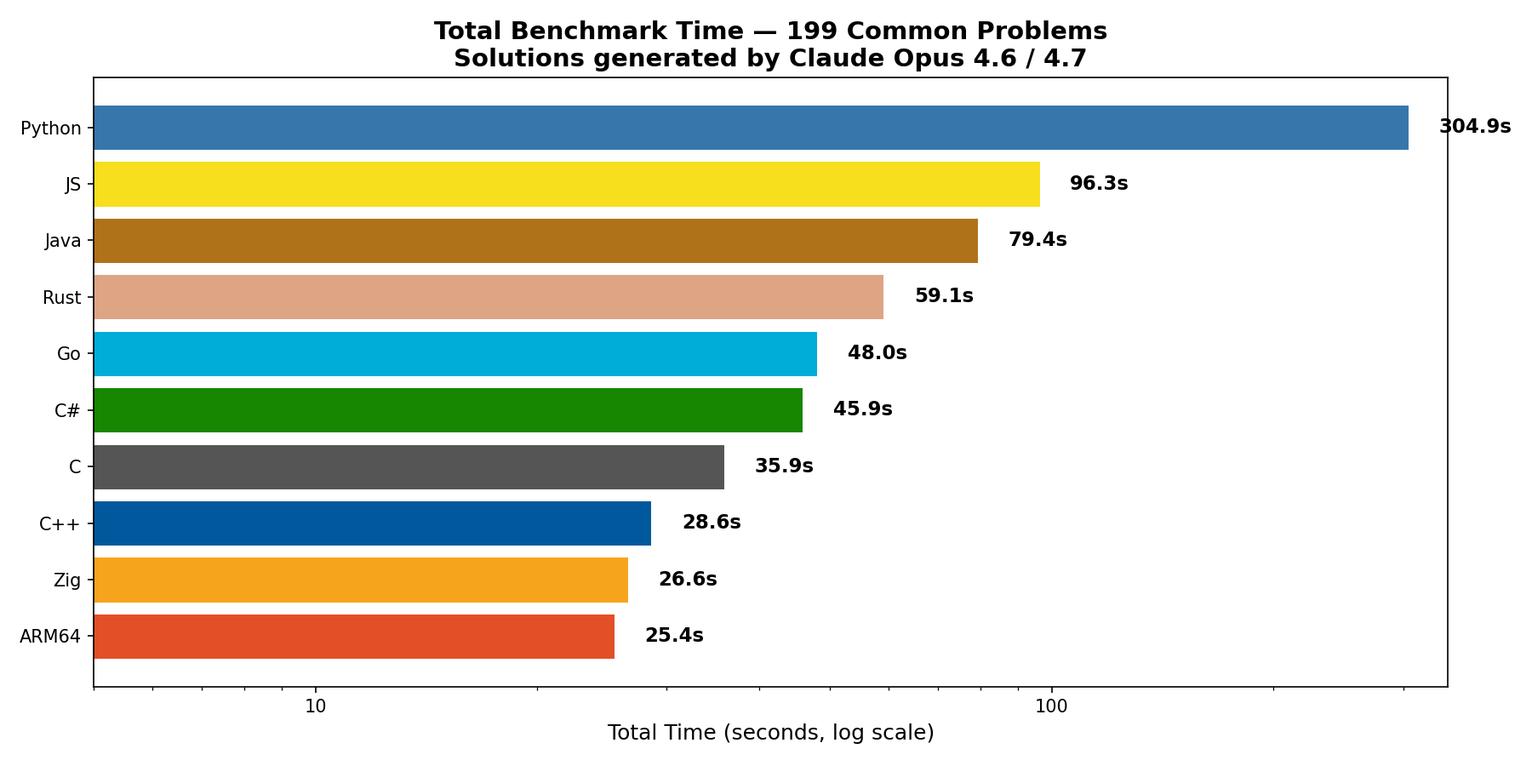
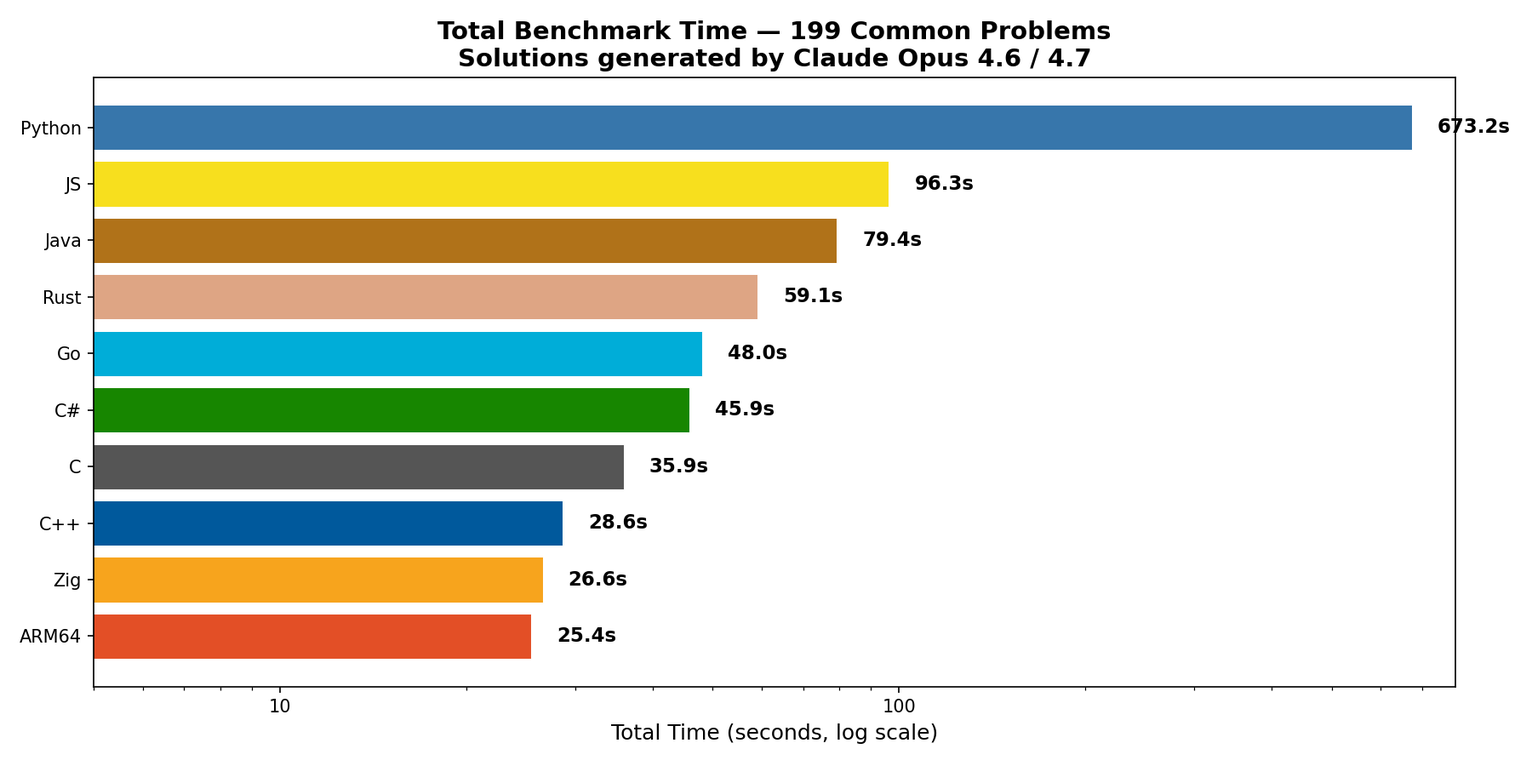
refresh python p219,220,222,223,224,225,226,227,228,229,230,231,232,233,234,235,237,239,240,242,243,244,246,247,248,249,250,251,252,253,255,256,257,258,259,261,263,264,265,266,267,268,269,270,271,273,274,276,277,278,280,281,282,284,285,286,288,293,295,297

diff --git a/THREE_MODE_REPORT.md b/THREE_MODE_REPORT.md
@@ -18,7 +18,7 @@ Reading the columns:
 | C# | 219 | 48.69 s | 67.05 s | 75.97 s |
 | Java | 219 | 48.35 s | 267.03 s | 435.89 s |
 | JS | 218 | 103.25 s | 192.45 s | 192.45 s |
-| Python | 219 | 298.12 s | 503.85 s | 503.85 s |
+| Python | 303 | 771.60 s | 1273.81 s | 1273.81 s |
 
 ## Comptime / constant-fold detection
 
@@ -174,7 +174,7 @@ Each cell: `runtime / compile`. Sorted by problem number.
 | 133 | 2.0 ms / 209.0 ms | 2.0 ms / 25.62 s | 2.4 ms / 834.7 ms | 2.2 ms / 1.48 s | 2.1 ms / 0 ns | 2.2 ms / 0 ns | 9.4 ms / 877.2 ms | 9.3 ms / 0 ns | 18.8 ms / 0 ns |
 | 134 | 5.2 ms / 300.0 ms | 6.0 ms / 369.1 ms | 6.0 ms / 680.3 ms | 6.7 ms / 1.28 s | 0 ns / 142.9 ms | 5.8 ms / 0 ns | 51.7 ms / 885.8 ms | 36.5 ms / 0 ns | 98.6 ms / 0 ns |
 | 135 | 2.7 ms / 264.0 ms | 2.5 ms / 13.34 s | 2.7 ms / 675.8 ms | 5.6 ms / 1.76 s | 3.2 ms / 0 ns | 4.2 ms / 0 ns | 3.7 ms / 850.7 ms | 8.1 ms / 0 ns | 367.9 ms / 0 ns |
-| 136 | 501.5 ms / 337.4 ms | 460.3 ms / 362.1 ms | 668.7 ms / 722.8 ms | 755.8 ms / 2.40 s | 0 ns / 131.3 ms | 775.2 ms / 0 ns | 688.1 ms / 653.4 ms | 1.44 s / 0 ns | — |
+| 136 | 501.5 ms / 337.4 ms | 460.3 ms / 362.1 ms | 668.7 ms / 722.8 ms | 755.8 ms / 2.40 s | 0 ns / 131.3 ms | 775.2 ms / 0 ns | 688.1 ms / 653.4 ms | 1.44 s / 0 ns | 26.85 s / 0 ns |
 | 137 | 125 ns / 577.6 ms | 0 ns / 389.8 ms | 42 ns / 656.5 ms | 166 ns / 2.56 s | 0 ns / 0 ns | 417 ns / 0 ns | 1.1 µs / 736.5 ms | 375 ns / 0 ns | 2.6 µs / 0 ns |
 | 138 | 0 ns / 192.5 ms | 0 ns / 398.6 ms | 42 ns / 910.1 ms | 41 ns / 2.87 s | 0 ns / 175.7 ms | 208 ns / 0 ns | 250 ns / 983.6 ms | 166 ns / 0 ns | 667 ns / 0 ns |
 | 139 | 258.0 ms / 223.4 ms | 299.8 ms / 411.8 ms | 284.3 ms / 750.6 ms | 281.6 ms / 2.31 s | 230.1 ms / 156.9 ms | 302.1 ms / 0 ns | 280.2 ms / 701.8 ms | 331.6 ms / 0 ns | 2.15 s / 0 ns |
@@ -184,15 +184,15 @@ Each cell: `runtime / compile`. Sorted by problem number.
 | 143 | 10.7 ms / 213.1 ms | 8.8 ms / 35.07 s | 123.0 ms / 922.1 ms | 41.6 ms / 2.71 s | 0 ns / 138.6 ms | 60.3 ms / 0 ns | 11.9 ms / 1.01 s | 34.6 ms / 0 ns | 205.0 ms / 0 ns |
 | 144 | 9.3 µs / 343.0 ms | 24.0 µs / 363.2 ms | 10.4 µs / 819.4 ms | 9.0 µs / 2.75 s | 10.0 µs / 0 ns | 16.7 µs / 0 ns | 10.6 µs / 676.6 ms | 10.4 µs / 0 ns | 126.9 µs / 0 ns |
 | 145 | 52.2 ms / 196.5 ms | 45.2 ms / 405.8 ms | 53.3 ms / 940.5 ms | 134.6 ms / 1.67 s | 75.5 ms / 0 ns | 98.6 ms / 0 ns | 117.8 ms / 848.5 ms | 283.7 ms / 0 ns | 4.83 s / 0 ns |
-| 146 | 3.68 s / 298.8 ms | 2.75 s / 397.4 ms | 3.97 s / 976.0 ms | 3.53 s / 2.09 s | 2.66 s / 0 ns | 8.40 s / 0 ns | 4.81 s / 896.4 ms | 11.45 s / 0 ns | — |
+| 146 | 3.68 s / 298.8 ms | 2.75 s / 397.4 ms | 3.97 s / 976.0 ms | 3.53 s / 2.09 s | 2.66 s / 0 ns | 8.40 s / 0 ns | 4.81 s / 896.4 ms | 11.45 s / 0 ns | 18.92 s / 0 ns |
 | 147 | 1.4 ms / 417.6 ms | 2.0 ms / 401.5 ms | 6.2 ms / 746.4 ms | 3.3 ms / 2.29 s | 3.7 ms / 155.0 ms | 4.4 ms / 0 ns | 3.5 ms / 985.0 ms | 6.5 ms / 0 ns | 552.4 ms / 0 ns |
 | 148 | 0 ns / 275.8 ms | 0 ns / 341.0 ms | 167 ns / 687.1 ms | 42 ns / 2.30 s | 0 ns / 130.9 ms | 500 ns / 0 ns | 125 ns / 832.7 ms | 1.9 µs / 0 ns | 2.3 µs / 0 ns |
 | 149 | 34.1 ms / 233.7 ms | 37.1 ms / 410.0 ms | 122.8 ms / 742.8 ms | 55.0 ms / 1.57 s | 36.8 ms / 0 ns | 50.2 ms / 0 ns | 61.8 ms / 926.6 ms | 56.7 ms / 0 ns | 1.38 s / 0 ns |
-| 150 | 234.9 ms / 435.6 ms | 118.4 ms / 392.8 ms | 326.9 ms / 901.7 ms | 345.5 ms / 2.51 s | 124.0 ms / 0 ns | 248.3 ms / 0 ns | 379.5 ms / 1.22 s | 644.1 ms / 0 ns | — |
+| 150 | 234.9 ms / 435.6 ms | 118.4 ms / 392.8 ms | 326.9 ms / 901.7 ms | 345.5 ms / 2.51 s | 124.0 ms / 0 ns | 248.3 ms / 0 ns | 379.5 ms / 1.22 s | 644.1 ms / 0 ns | 17.76 s / 0 ns |
 | 151 | 625 ns / 224.3 ms | 3.0 µs / 366.9 ms | 708 ns / 980.4 ms | 41 ns / 1.94 s | 5.0 µs / 0 ns | 0 ns / 0 ns | 3.5 µs / 763.5 ms | 1.7 µs / 0 ns | 166 ns / 0 ns |
-| 152 | 961.0 ms / 223.7 ms | 703.5 ms / 439.6 ms | 877.4 ms / 193.0 ms | 1.54 s / 1.60 s | 1.58 s / 0 ns | 1.00 s / 0 ns | 1.24 s / 728.0 ms | 8.10 s / 0 ns | — |
+| 152 | 961.0 ms / 223.7 ms | 703.5 ms / 439.6 ms | 877.4 ms / 193.0 ms | 1.54 s / 1.60 s | 1.58 s / 0 ns | 1.00 s / 0 ns | 1.24 s / 728.0 ms | 8.10 s / 0 ns | 891.3 ms / 0 ns |
 | 153 | 2.85 s / 222.2 ms | 2.99 s / 381.2 ms | 3.84 s / 966.8 ms | 3.06 s / 1.67 s | 0 ns / 140.6 ms | 2.93 s / 0 ns | 125 ns / 817.9 ms | 12.66 s / 0 ns | 83 ns / 0 ns |
-| 154 | 3.16 s / 255.9 ms | 3.01 s / 352.9 ms | 4.46 s / 819.7 ms | 4.39 s / 1.98 s | 3.43 s / 0 ns | 6.01 s / 0 ns | 7.74 s / 942.5 ms | 9.93 s / 0 ns | — |
+| 154 | 3.16 s / 255.9 ms | 3.01 s / 352.9 ms | 4.46 s / 819.7 ms | 4.39 s / 1.98 s | 3.43 s / 0 ns | 6.01 s / 0 ns | 7.74 s / 942.5 ms | 9.93 s / 0 ns | 83 ns / 0 ns |
 | 155 | 0 ns / 630.6 ms | 539.1 ms / 376.0 ms | 2.66 s / 156.3 ms | 0 ns / 3.23 s | 699.6 ms / 0 ns | 41 ns / 0 ns | 125 ns / 1.48 s | 84 ns / 0 ns | 83 ns / 0 ns |
 | 156 | 108.7 ms / 614.1 ms | 75.8 ms / 359.9 ms | 101.9 ms / 843.7 ms | 148.0 ms / 2.16 s | 143.4 ms / 0 ns | 114.1 ms / 0 ns | 158.7 ms / 1.02 s | 1.48 s / 0 ns | 42 ns / 0 ns |
 | 157 | 4.8 ms / 398.8 ms | 0 ns / 387.5 ms | 4.9 ms / 1.26 s | 5.3 ms / 1.28 s | 4.8 ms / 167.4 ms | 5.2 ms / 0 ns | 5.0 ms / 1.05 s | 7.5 ms / 0 ns | 236.0 ms / 0 ns |
@@ -223,7 +223,7 @@ Each cell: `runtime / compile`. Sorted by problem number.
 | 182 | 252.9 ms / 269.6 ms | 270.2 ms / 360.4 ms | 217.8 ms / 689.1 ms | 216.6 ms / 1.13 s | 0 ns / 145.3 ms | 230.8 ms / 0 ns | 217.7 ms / 958.1 ms | 524.2 ms / 0 ns | 437.6 ms / 0 ns |
 | 183 | 696.8 µs / 527.5 ms | 877.0 µs / 375.6 ms | 670.0 µs / 586.8 ms | 828.1 µs / 1.37 s | 673.0 µs / 0 ns | 620.6 µs / 0 ns | 655.5 µs / 755.1 ms | 772.8 µs / 0 ns | 4.2 ms / 0 ns |
 | 184 | 2.6 ms / 163.1 ms | 1.8 ms / 483.6 ms | 1.4 ms / 371.0 ms | 41 ns / 373.9 ms | 1.1 ms / 172.4 ms | 2.4 ms / 1.09 s | 2.1 ms / 436.5 ms | 83 ns / 0 ns | 83 ns / 0 ns |
-| 185 | — | 47.0 ms / 395.1 ms | — | — | 91.9 ms / 134.7 ms | — | — | — | — |
+| 185 | — | 47.0 ms / 395.1 ms | — | — | 91.9 ms / 134.7 ms | — | — | — | 1.01 s / 0 ns |
 | 186 | 51.2 ms / 405.6 ms | 0 ns / 356.0 ms | 53.0 ms / 598.9 ms | 86.3 ms / 1.07 s | 31.5 ms / 0 ns | 52.9 ms / 0 ns | 72.0 ms / 979.0 ms | 162.1 ms / 0 ns | 125 ns / 0 ns |
 | 187 | 83.2 µs / 611.1 ms | 54.0 µs / 375.2 ms | 380.5 ms / 568.2 ms | 77.4 µs / 989.2 ms | 53.0 µs / 0 ns | 85.7 µs / 0 ns | 80.7 µs / 724.1 ms | 492.8 ms / 0 ns | 83 ns / 0 ns |
 | 188 | 5.5 µs / 633.2 ms | 0 ns / 372.9 ms | 1.3 µs / 498.7 ms | 19.7 µs / 829.5 ms | 2.0 µs / 0 ns | 5.3 µs / 0 ns | 1.7 µs / 822.4 ms | 18.2 µs / 0 ns | 25.5 µs / 0 ns |
@@ -234,104 +234,104 @@ Each cell: `runtime / compile`. Sorted by problem number.
 | 193 | 36.5 ms / 364.2 ms | 34.3 ms / 353.0 ms | 366.5 ms / 165.3 ms | 51.2 ms / 906.5 ms | 36.1 ms / 0 ns | 41.6 ms / 0 ns | 53.3 ms / 851.9 ms | 1.30 s / 0 ns | 2.80 s / 0 ns |
 | 194 | 1.6 µs / 105.6 ms | 8.0 µs / 382.8 ms | 2.0 µs / 71.4 ms | 2.2 µs / 302.1 ms | 9.0 µs / 139.2 ms | 9.4 µs / 888.2 ms | 1.6 µs / 389.9 ms | 4.6 µs / 0 ns | 1.2 µs / 0 ns |
 | 195 | 274.3 ms / 796.1 ms | 0 ns / 373.9 ms | 227.9 ms / 227.7 ms | 230.1 ms / 410.4 ms | 233.1 ms / 0 ns | 247.3 ms / 1.06 s | 233.6 ms / 427.4 ms | 636.4 ms / 0 ns | 1.06 s / 0 ns |
-| 196 | 0 ns / 122.4 ms | 0 ns / 438.9 ms | 0 ns / 64.7 ms | 0 ns / 788.4 ms | 141.9 ms / 135.3 ms | 0 ns / 0 ns | 0 ns / 696.1 ms | 0 ns / 0 ns | — |
+| 196 | 0 ns / 122.4 ms | 0 ns / 438.9 ms | 0 ns / 64.7 ms | 0 ns / 788.4 ms | 141.9 ms / 135.3 ms | 0 ns / 0 ns | 0 ns / 696.1 ms | 0 ns / 0 ns | 46.51 s / 0 ns |
 | 197 | 16.9 µs / 473.4 ms | 68.0 µs / 366.1 ms | 17.9 µs / 105.0 ms | 66.0 µs / 604.3 ms | 24.0 µs / 0 ns | 27.0 µs / 0 ns | 55.8 µs / 513.2 ms | 19.7 µs / 0 ns | 96.8 µs / 0 ns |
 | 198 | 0 ns / 100.0 ms | 0 ns / 377.9 ms | 124.8 ms / 57.5 ms | 311.2 ms / 271.8 ms | 0 ns / 141.6 ms | 475.0 ms / 870.2 ms | 463.8 ms / 384.8 ms | 772.5 ms / 0 ns | 11.84 s / 0 ns |
 | 199 | 587.5 µs / 227.4 ms | 646.0 µs / 352.3 ms | 668.0 µs / 457.6 ms | 1.3 ms / 611.2 ms | 1.4 ms / 0 ns | 1.7 ms / 0 ns | 730.9 µs / 465.3 ms | 2.8 ms / 0 ns | 27.4 ms / 0 ns |
 | 200 | 8.1 ms / 215.5 ms | 7.9 ms / 443.2 ms | 9.1 ms / 685.3 ms | 7.7 ms / 378.6 ms | 73.1 ms / 0 ns | 18.0 ms / 0 ns | 15.5 ms / 592.0 ms | 39.8 ms / 0 ns | 83 ns / 0 ns |
-| 201 | 480.9 ms / 160.7 ms | 511.3 ms / 3.93 s | 752.5 ms / 149.9 ms | 1.25 s / 894.3 ms | — | 1.60 s / 0 ns | 932.2 ms / 524.8 ms | 1.54 s / 0 ns | — |
-| 202 | 1.0 µs / 180.9 ms | 15.0 µs / 363.8 ms | 1.0 µs / 86.3 ms | 1.1 µs / 726.5 ms | — | 13.0 µs / 0 ns | 4.8 µs / 668.4 ms | 11.5 µs / 0 ns | — |
-| 203 | 142.4 µs / 164.7 ms | 55.0 µs / 449.0 ms | 43.0 µs / 61.3 ms | 48.7 µs / 575.3 ms | — | 51.5 µs / 0 ns | 48.4 µs / 541.2 ms | 127.4 µs / 0 ns | — |
-| 204 | 17.7 ms / 176.7 ms | 13.7 ms / 373.9 ms | 14.2 ms / 96.1 ms | 23.2 ms / 467.6 ms | — | 26.8 ms / 0 ns | 45.3 ms / 618.8 ms | 48.8 ms / 0 ns | — |
-| 205 | 958 ns / 185.9 ms | 0 ns / 387.7 ms | 1.1 µs / 101.3 ms | 1.5 µs / 1.07 s | — | 11.6 µs / 0 ns | 4.8 µs / 767.3 ms | 4.0 µs / 0 ns | — |
-| 206 | 53.6 ms / 247.5 ms | 40.2 ms / 393.0 ms | 73.4 ms / 111.7 ms | 73.3 ms / 812.7 ms | 66.7 ms / 0 ns | 115.7 ms / 0 ns | 102.2 ms / 783.2 ms | 686.3 ms / 0 ns | — |
-| 207 | 322.0 µs / 166.4 ms | 318.0 µs / 352.1 ms | 241.6 µs / 84.2 ms | 138.5 µs / 990.4 ms | 136.0 µs / 0 ns | 76.6 µs / 0 ns | 118.0 µs / 771.7 ms | 177.0 µs / 0 ns | — |
-| 208 | 11.8 ms / 208.5 ms | 11.4 ms / 2.47 s | 25.0 ms / 106.9 ms | 23.9 ms / 772.7 ms | — | 35.7 ms / 0 ns | 52.0 ms / 825.7 ms | 89.5 ms / 0 ns | — |
-| 209 | 209 ns / 297.2 ms | 1.0 µs / 353.3 ms | 208 ns / 118.6 ms | 375 ns / 1.71 s | — | 2.0 µs / 0 ns | 667 ns / 832.7 ms | 1.2 µs / 0 ns | — |
-| 210 | 652.9 ms / 302.1 ms | 352.9 ms / 376.2 ms | 988.6 ms / 132.9 ms | 397.0 ms / 1.04 s | — | 321.1 ms / 0 ns | 337.9 ms / 794.0 ms | 0 ns / 0 ns | — |
-| 211 | 8.14 s / 239.6 ms | 3.76 s / 2.46 s | 7.23 s / 115.6 ms | 6.78 s / 1.20 s | — | 6.13 s / 0 ns | 8.04 s / 1.01 s | 5.38 s / 0 ns | 12.95 s / 0 ns |
-| 212 | 10.60 s / 506.4 ms | 5.38 s / 649.0 ms | 6.62 s / 123.9 ms | 12.21 s / 1.05 s | — | 8.22 s / 0 ns | 0 ns / 942.9 ms | 16.57 s / 0 ns | — |
-| 213 | 64.8 ms / 213.0 ms | 176.8 ms / 3.80 s | 95.1 ms / 83.9 ms | 136.9 ms / 364.9 ms | — | 93.9 ms / 0 ns | 91.0 ms / 414.9 ms | 347.6 ms / 0 ns | — |
-| 214 | 700.2 ms / 221.8 ms | 498.9 ms / 2.51 s | 734.4 ms / 69.7 ms | 651.6 ms / 431.0 ms | — | 672.8 ms / 0 ns | 547.7 ms / 402.8 ms | 9.07 s / 0 ns | 13.46 s / 0 ns |
-| 215 | 4.7 ms / 177.6 ms | 5.0 ms / 3.76 s | 6.9 ms / 131.7 ms | 10.7 ms / 382.5 ms | — | 12.6 ms / 0 ns | 29.9 ms / 450.8 ms | 13.3 ms / 0 ns | — |
-| 216 | — | 1.68 s / 392.0 ms | 2.51 s / 0 ns | 1.72 s / 0 ns | — | 1.78 s / 0 ns | 1.79 s / 0 ns | 7.50 s / 0 ns | 15.05 s / 0 ns |
-| 217 | — | 0 ns / 378.7 ms | 1.1 ms / 0 ns | 1.3 ms / 0 ns | — | 1.6 ms / 0 ns | 1.5 ms / 0 ns | 8.9 ms / 0 ns | — |
-| 218 | — | 0 ns / 361.6 ms | 0 ns / 0 ns | 0 ns / 0 ns | — | 0 ns / 0 ns | 83 ns / 0 ns | 83 ns / 0 ns | — |
-| 219 | — | 3.0 µs / 382.5 ms | 958 ns / 0 ns | 2.7 µs / 0 ns | — | 0 ns / 0 ns | 4.5 µs / 0 ns | 83 ns / 0 ns | — |
-| 220 | — | 3.0 µs / 395.4 ms | 291 ns / 0 ns | 750 ns / 0 ns | — | 0 ns / 0 ns | 1.8 µs / 0 ns | 666 ns / 0 ns | — |
-| 221 | — | 13.6 ms / 493.3 ms | — | — | — | — | — | — | — |
-| 222 | — | 1.76 s / 379.0 ms | — | — | — | — | — | — | — |
-| 223 | — | 6.80 s / 457.3 ms | — | — | — | — | — | — | — |
-| 224 | — | 2.09 s / 512.1 ms | — | — | — | — | — | — | — |
-| 225 | — | 15.5 ms / 395.1 ms | — | — | — | — | — | — | — |
-| 226 | — | 0 ns / 350.5 ms | — | — | — | — | — | — | — |
-| 227 | — | 0 ns / 346.9 ms | — | — | — | — | — | — | — |
-| 228 | — | 16.0 µs / 394.3 ms | — | — | — | — | — | — | — |
-| 229 | — | 13.01 s / 376.4 ms | — | — | — | — | — | — | — |
-| 230 | — | 0 ns / 392.0 ms | — | — | — | — | — | — | — |
-| 231 | — | 44.6 ms / 363.7 ms | — | — | — | — | — | — | — |
-| 232 | — | 251.0 µs / 529.7 ms | — | — | — | — | — | — | — |
-| 233 | — | — | — | — | — | — | — | — | — |
-| 234 | — | 1.8 ms / 396.2 ms | — | — | — | — | — | — | — |
-| 235 | — | 18.0 µs / 381.9 ms | — | — | — | — | — | — | — |
+| 201 | 480.9 ms / 160.7 ms | 511.3 ms / 3.93 s | 752.5 ms / 149.9 ms | 1.25 s / 894.3 ms | — | 1.60 s / 0 ns | 932.2 ms / 524.8 ms | 1.54 s / 0 ns | 570.7 ms / 0 ns |
+| 202 | 1.0 µs / 180.9 ms | 15.0 µs / 363.8 ms | 1.0 µs / 86.3 ms | 1.1 µs / 726.5 ms | — | 13.0 µs / 0 ns | 4.8 µs / 668.4 ms | 11.5 µs / 0 ns | 82.6 µs / 0 ns |
+| 203 | 142.4 µs / 164.7 ms | 55.0 µs / 449.0 ms | 43.0 µs / 61.3 ms | 48.7 µs / 575.3 ms | — | 51.5 µs / 0 ns | 48.4 µs / 541.2 ms | 127.4 µs / 0 ns | 306.4 µs / 0 ns |
+| 204 | 17.7 ms / 176.7 ms | 13.7 ms / 373.9 ms | 14.2 ms / 96.1 ms | 23.2 ms / 467.6 ms | — | 26.8 ms / 0 ns | 45.3 ms / 618.8 ms | 48.8 ms / 0 ns | 1.18 s / 0 ns |
+| 205 | 958 ns / 185.9 ms | 0 ns / 387.7 ms | 1.1 µs / 101.3 ms | 1.5 µs / 1.07 s | — | 11.6 µs / 0 ns | 4.8 µs / 767.3 ms | 4.0 µs / 0 ns | 73.8 µs / 0 ns |
+| 206 | 53.6 ms / 247.5 ms | 40.2 ms / 393.0 ms | 73.4 ms / 111.7 ms | 73.3 ms / 812.7 ms | 66.7 ms / 0 ns | 115.7 ms / 0 ns | 102.2 ms / 783.2 ms | 686.3 ms / 0 ns | 3.59 s / 0 ns |
+| 207 | 322.0 µs / 166.4 ms | 318.0 µs / 352.1 ms | 241.6 µs / 84.2 ms | 138.5 µs / 990.4 ms | 136.0 µs / 0 ns | 76.6 µs / 0 ns | 118.0 µs / 771.7 ms | 177.0 µs / 0 ns | 9.2 ms / 0 ns |
+| 208 | 11.8 ms / 208.5 ms | 11.4 ms / 2.47 s | 25.0 ms / 106.9 ms | 23.9 ms / 772.7 ms | — | 35.7 ms / 0 ns | 52.0 ms / 825.7 ms | 89.5 ms / 0 ns | 1.59 s / 0 ns |
+| 209 | 209 ns / 297.2 ms | 1.0 µs / 353.3 ms | 208 ns / 118.6 ms | 375 ns / 1.71 s | — | 2.0 µs / 0 ns | 667 ns / 832.7 ms | 1.2 µs / 0 ns | 23.8 µs / 0 ns |
+| 210 | 652.9 ms / 302.1 ms | 352.9 ms / 376.2 ms | 988.6 ms / 132.9 ms | 397.0 ms / 1.04 s | — | 321.1 ms / 0 ns | 337.9 ms / 794.0 ms | 0 ns / 0 ns | 2.23 s / 0 ns |
+| 211 | 8.14 s / 239.6 ms | 3.76 s / 2.46 s | 7.23 s / 115.6 ms | 6.78 s / 1.20 s | — | 6.13 s / 0 ns | 8.04 s / 1.01 s | 5.38 s / 0 ns | 13.12 s / 0 ns |
+| 212 | 10.60 s / 506.4 ms | 5.38 s / 649.0 ms | 6.62 s / 123.9 ms | 12.21 s / 1.05 s | — | 8.22 s / 0 ns | 0 ns / 942.9 ms | 16.57 s / 0 ns | 19.60 s / 0 ns |
+| 213 | 64.8 ms / 213.0 ms | 176.8 ms / 3.80 s | 95.1 ms / 83.9 ms | 136.9 ms / 364.9 ms | — | 93.9 ms / 0 ns | 91.0 ms / 414.9 ms | 347.6 ms / 0 ns | 4.39 s / 0 ns |
+| 214 | 700.2 ms / 221.8 ms | 498.9 ms / 2.51 s | 734.4 ms / 69.7 ms | 651.6 ms / 431.0 ms | — | 672.8 ms / 0 ns | 547.7 ms / 402.8 ms | 9.07 s / 0 ns | 14.37 s / 0 ns |
+| 215 | 4.7 ms / 177.6 ms | 5.0 ms / 3.76 s | 6.9 ms / 131.7 ms | 10.7 ms / 382.5 ms | — | 12.6 ms / 0 ns | 29.9 ms / 450.8 ms | 13.3 ms / 0 ns | 389.4 ms / 0 ns |
+| 216 | — | 1.68 s / 392.0 ms | 2.51 s / 0 ns | 1.72 s / 0 ns | — | 1.78 s / 0 ns | 1.79 s / 0 ns | 7.50 s / 0 ns | 14.62 s / 0 ns |
+| 217 | — | 0 ns / 378.7 ms | 1.1 ms / 0 ns | 1.3 ms / 0 ns | — | 1.6 ms / 0 ns | 1.5 ms / 0 ns | 8.9 ms / 0 ns | 5.2 ms / 0 ns |
+| 218 | — | 0 ns / 361.6 ms | 0 ns / 0 ns | 0 ns / 0 ns | — | 0 ns / 0 ns | 83 ns / 0 ns | 83 ns / 0 ns | 1.37 s / 0 ns |
+| 219 | — | 3.0 µs / 382.5 ms | 958 ns / 0 ns | 2.7 µs / 0 ns | — | 0 ns / 0 ns | 4.5 µs / 0 ns | 83 ns / 0 ns | 13.8 µs / 0 ns |
+| 220 | — | 3.0 µs / 395.4 ms | 291 ns / 0 ns | 750 ns / 0 ns | — | 0 ns / 0 ns | 1.8 µs / 0 ns | 666 ns / 0 ns | 60.7 µs / 0 ns |
+| 221 | — | 13.6 ms / 493.3 ms | — | — | — | — | — | — | 277.7 ms / 0 ns |
+| 222 | — | 1.76 s / 379.0 ms | — | — | — | — | — | — | 1.1 ms / 0 ns |
+| 223 | — | 6.80 s / 457.3 ms | — | — | — | — | — | — | 77.46 s / 0 ns |
+| 224 | — | 2.09 s / 512.1 ms | — | — | — | — | — | — | 53.76 s / 0 ns |
+| 225 | — | 15.5 ms / 395.1 ms | — | — | — | — | — | — | 355.9 ms / 0 ns |
+| 226 | — | 0 ns / 350.5 ms | — | — | — | — | — | — | 5.00 s / 0 ns |
+| 227 | — | 0 ns / 346.9 ms | — | — | — | — | — | — | 1.5 ms / 0 ns |
+| 228 | — | 16.0 µs / 394.3 ms | — | — | — | — | — | — | 233.9 µs / 0 ns |
+| 229 | — | 13.01 s / 376.4 ms | — | — | — | — | — | — | 35.64 s / 0 ns |
+| 230 | — | 0 ns / 392.0 ms | — | — | — | — | — | — | 51.2 µs / 0 ns |
+| 231 | — | 44.6 ms / 363.7 ms | — | — | — | — | — | — | 677.1 ms / 0 ns |
+| 232 | — | 251.0 µs / 529.7 ms | — | — | — | — | — | — | 20.1 ms / 0 ns |
+| 233 | — | — | — | — | — | — | — | — | 4.19 s / 0 ns |
+| 234 | — | 1.8 ms / 396.2 ms | — | — | — | — | — | — | 106.5 ms / 0 ns |
+| 235 | — | 18.0 µs / 381.9 ms | — | — | — | — | — | — | 44.5 µs / 0 ns |
 | 236 | — | — | — | — | — | — | — | — | — |
-| 237 | — | 0 ns / 512.2 ms | — | — | — | — | — | — | — |
-| 239 | — | 0 ns / 357.5 ms | — | — | — | — | — | — | — |
-| 240 | — | 44.0 µs / 397.6 ms | — | — | — | — | — | — | — |
+| 237 | — | 0 ns / 512.2 ms | — | — | — | — | — | — | 398.6 µs / 0 ns |
+| 239 | — | 0 ns / 357.5 ms | — | — | — | — | — | — | 187.7 µs / 0 ns |
+| 240 | — | 44.0 µs / 397.6 ms | — | — | — | — | — | — | 2.0 ms / 0 ns |
 | 241 | — | 0 ns / 354.5 ms | — | — | — | — | — | — | — |
-| 242 | — | 0 ns / 368.2 ms | — | — | — | — | — | — | — |
-| 243 | — | 41.0 µs / 379.9 ms | — | — | — | — | — | — | — |
-| 244 | — | 13.9 ms / 386.0 ms | — | — | — | — | — | — | — |
+| 242 | — | 0 ns / 368.2 ms | — | — | — | — | — | — | 15.7 µs / 0 ns |
+| 243 | — | 41.0 µs / 379.9 ms | — | — | — | — | — | — | 5.7 µs / 0 ns |
+| 244 | — | 13.9 ms / 386.0 ms | — | — | — | — | — | — | 90.5 ms / 0 ns |
 | 245 | — | 1.24 s / 655.5 ms | — | — | — | — | — | — | — |
-| 246 | — | 0 ns / 609.4 ms | — | — | — | — | — | — | — |
-| 247 | — | 17.3 ms / 456.4 ms | — | — | — | — | — | — | — |
-| 248 | — | 760.0 ms / 609.7 ms | — | — | — | — | — | — | — |
-| 249 | — | 221.5 ms / 1.58 s | — | — | — | — | — | — | — |
-| 250 | — | 105.9 ms / 539.0 ms | — | — | — | — | — | — | — |
-| 251 | — | 0 ns / 431.5 ms | — | — | — | — | — | — | — |
-| 252 | 242.3 ms / 125.7 ms | 246.3 ms / 588.9 ms | — | — | — | — | — | — | — |
-| 253 | — | 0 ns / 416.7 ms | — | — | — | — | — | — | — |
+| 246 | — | 0 ns / 609.4 ms | — | — | — | — | — | — | 4.40 s / 0 ns |
+| 247 | — | 17.3 ms / 456.4 ms | — | — | — | — | — | — | 864.4 ms / 0 ns |
+| 248 | — | 760.0 ms / 609.7 ms | — | — | — | — | — | — | 12.05 s / 0 ns |
+| 249 | — | 221.5 ms / 1.58 s | — | — | — | — | — | — | 2.44 s / 0 ns |
+| 250 | — | 105.9 ms / 539.0 ms | — | — | — | — | — | — | 5.16 s / 0 ns |
+| 251 | — | 0 ns / 431.5 ms | — | — | — | — | — | — | 42 ns / 0 ns |
+| 252 | 242.3 ms / 125.7 ms | 246.3 ms / 588.9 ms | — | — | — | — | — | — | 42 ns / 0 ns |
+| 253 | — | 0 ns / 416.7 ms | — | — | — | — | — | — | 1.4 ms / 0 ns |
 | 254 | — | 441.1 ms / 439.7 ms | — | — | — | — | — | — | — |
-| 255 | — | 0 ns / 456.0 ms | — | — | — | — | — | — | — |
-| 256 | — | 998.6 ms / 448.5 ms | — | — | — | — | — | — | — |
-| 257 | — | 0 ns / 576.5 ms | — | — | — | — | — | — | — |
-| 258 | — | 204.1 ms / 450.8 ms | — | — | — | — | — | — | — |
-| 259 | — | 14.22 s / 515.2 ms | — | — | — | — | — | — | — |
-| 260 | — | 1.05 s / 594.3 ms | — | — | — | — | — | — | — |
-| 261 | — | 15.5 ms / 548.1 ms | — | — | — | — | — | — | — |
-| 263 | — | 1.81 s / 443.0 ms | — | — | — | — | — | — | — |
-| 264 | — | 266.0 ms / 4.38 s | — | — | — | — | — | — | — |
-| 265 | — | 470.0 µs / 540.0 ms | — | — | — | — | — | — | — |
-| 266 | — | 1.28 s / 472.3 ms | — | — | — | — | — | — | — |
-| 267 | — | 12.0 µs / 444.0 ms | — | — | — | — | — | — | — |
-| 268 | — | 24.0 ms / 430.1 ms | — | — | — | — | — | — | — |
-| 269 | — | 29.7 ms / 594.5 ms | — | — | — | — | — | — | — |
-| 270 | — | 0 ns / 59.97 s | — | — | — | — | — | — | — |
-| 271 | — | 0 ns / 542.5 ms | — | — | — | — | — | — | — |
+| 255 | — | 0 ns / 456.0 ms | — | — | — | — | — | — | 42 ns / 0 ns |
+| 256 | — | 998.6 ms / 448.5 ms | — | — | — | — | — | — | 4.81 s / 0 ns |
+| 257 | — | 0 ns / 576.5 ms | — | — | — | — | — | — | 2.04 s / 0 ns |
+| 258 | — | 204.1 ms / 450.8 ms | — | — | — | — | — | — | 174.4 ms / 0 ns |
+| 259 | — | 14.22 s / 515.2 ms | — | — | — | — | — | — | 8.05 s / 0 ns |
+| 260 | — | 1.05 s / 594.3 ms | — | — | — | — | — | — | 17.11 s / 0 ns |
+| 261 | — | 15.5 ms / 548.1 ms | — | — | — | — | — | — | 596.0 ms / 0 ns |
+| 263 | — | 1.81 s / 443.0 ms | — | — | — | — | — | — | 16.62 s / 0 ns |
+| 264 | — | 266.0 ms / 4.38 s | — | — | — | — | — | — | 11.53 s / 0 ns |
+| 265 | — | 470.0 µs / 540.0 ms | — | — | — | — | — | — | 44.2 ms / 0 ns |
+| 266 | — | 1.28 s / 472.3 ms | — | — | — | — | — | — | 14.80 s / 0 ns |
+| 267 | — | 12.0 µs / 444.0 ms | — | — | — | — | — | — | 302.2 µs / 0 ns |
+| 268 | — | 24.0 ms / 430.1 ms | — | — | — | — | — | — | 2.48 s / 0 ns |
+| 269 | — | 29.7 ms / 594.5 ms | — | — | — | — | — | — | 1.08 s / 0 ns |
+| 270 | — | 0 ns / 59.97 s | — | — | — | — | — | — | 16.4 ms / 0 ns |
+| 271 | — | 0 ns / 542.5 ms | — | — | — | — | — | — | 215.3 µs / 0 ns |
 | 272 | — | 6.67 s / 424.6 ms | — | — | — | — | — | — | — |
-| 273 | — | 1.84 s / 744.3 ms | — | — | — | — | — | — | — |
-| 274 | — | 227.1 ms / 758.1 ms | — | — | — | — | — | — | — |
-| 276 | — | 67.2 ms / 442.3 ms | — | — | — | — | — | — | — |
-| 277 | — | 12.0 µs / 584.1 ms | — | — | — | — | — | — | — |
-| 278 | — | 64.6 ms / 568.5 ms | — | — | — | — | — | — | — |
+| 273 | — | 1.84 s / 744.3 ms | — | — | — | — | — | — | 16.62 s / 0 ns |
+| 274 | — | 227.1 ms / 758.1 ms | — | — | — | — | — | — | 575.0 ms / 0 ns |
+| 276 | — | 67.2 ms / 442.3 ms | — | — | — | — | — | — | 1.10 s / 0 ns |
+| 277 | — | 12.0 µs / 584.1 ms | — | — | — | — | — | — | 5.9 µs / 0 ns |
+| 278 | — | 64.6 ms / 568.5 ms | — | — | — | — | — | — | 5.80 s / 0 ns |
 | 279 | — | 0 ns / 689.3 ms | — | — | — | — | — | — | — |
-| 280 | — | 1.1 ms / 446.9 ms | — | — | — | — | — | — | — |
-| 281 | — | 0 ns / 414.3 ms | — | — | — | — | — | — | — |
-| 282 | — | 15.0 µs / 412.1 ms | — | — | — | — | — | — | — |
+| 280 | — | 1.1 ms / 446.9 ms | — | — | — | — | — | — | 106.3 ms / 0 ns |
+| 281 | — | 0 ns / 414.3 ms | — | — | — | — | — | — | 372.2 µs / 0 ns |
+| 282 | — | 15.0 µs / 412.1 ms | — | — | — | — | — | — | 107.5 µs / 0 ns |
 | 283 | — | 1.46 s / 561.5 ms | — | — | — | — | — | — | — |
-| 284 | — | 268.2 ms / 569.2 ms | — | — | — | — | — | — | — |
-| 285 | — | 3.2 ms / 459.4 ms | — | — | — | — | — | — | — |
-| 286 | — | 0 ns / 467.2 ms | — | — | — | — | — | — | — |
+| 284 | — | 268.2 ms / 569.2 ms | — | — | — | — | — | — | 15.80 s / 0 ns |
+| 285 | — | 3.2 ms / 459.4 ms | — | — | — | — | — | — | 9.3 ms / 0 ns |
+| 286 | — | 0 ns / 467.2 ms | — | — | — | — | — | — | 11.7 ms / 0 ns |
 | 287 | — | 0 ns / 368.4 ms | — | — | — | — | — | — | — |
-| 288 | — | 131.5 ms / 480.2 ms | — | — | — | — | — | — | — |
+| 288 | — | 131.5 ms / 480.2 ms | — | — | — | — | — | — | 736.2 ms / 0 ns |
 | 290 | — | 6.4 ms / 404.9 ms | — | — | — | — | — | — | — |
 | 291 | — | 2.68 s / 423.9 ms | — | — | — | — | — | — | — |
 | 292 | — | 448.8 ms / 559.7 ms | — | — | — | — | — | — | — |
-| 293 | — | 43.4 ms / 420.6 ms | — | — | — | — | — | — | — |
+| 293 | — | 43.4 ms / 420.6 ms | — | — | — | — | — | — | 77.5 ms / 0 ns |
 | 294 | — | 4.99 s / 467.3 ms | — | — | — | — | — | — | — |
-| 295 | — | 258.7 ms / 1.05 s | — | — | — | — | — | — | — |
+| 295 | — | 258.7 ms / 1.05 s | — | — | — | — | — | — | 3.26 s / 0 ns |
 | 296 | — | 17.76 s / 401.7 ms | — | — | — | — | — | — | — |
-| 297 | — | 1.0 µs / 599.2 ms | — | — | — | — | — | — | — |
+| 297 | — | 1.0 µs / 599.2 ms | — | — | — | — | — | — | 16.6 µs / 0 ns |
 | 299 | — | 265.4 ms / 441.9 ms | — | — | — | — | — | — | — |
 | 301 | — | 0 ns / 397.4 ms | — | — | — | — | — | — | — |
 | 302 | — | — | — | — | — | — | — | — | — |

diff --git a/COVERAGE.md b/COVERAGE.md
@@ -1,6 +1,6 @@
 # Project Euler — Coverage Dashboard
 
-_Generated: 2026-05-11 18:03_
+_Generated: 2026-05-11 21:11_
 
 Legend: 🟩 done · 🟨 parked / known issue · 🟥 missing · ⬛ out of scope
 
@@ -14,7 +14,7 @@ Legend: 🟩 done · 🟨 parked / known issue · 🟥 missing · ⬛ out of sco
 | **Go** | 254 | 0 | 746 | 0 | 25.4% |
 | **Java** | 221 | 0 | 779 | 0 | 22.1% |
 | **JS** | 221 | 0 | 779 | 0 | 22.1% |
-| **Py** | 279 | 0 | 721 | 0 | 27.9% |
+| **Py** | 340 | 0 | 660 | 0 | 34.0% |
 | **Rust** | 236 | 0 | 764 | 0 | 23.6% |
 | **Zig** | 416 | 0 | 584 | 0 | 41.6% |
 | **ARM64** | 200 | 0 | 0 | 800 | 100.0% |
@@ -27,7 +27,7 @@ Each cell shows: `<done>/100` followed by 🟩 (full) / 🟨 (≥50%) / 🟥 (so
 |---|---|---|---|---|---|---|---|---|---|---|
 | 001–100 | 🟩 **100** | 🟩 **100** | 🟩 **100** | 🟩 **100** | 🟩 **100** | 🟩 **100** | 🟩 **100** | 🟩 **100** | 🟩 **100** | 🟩 **100** |
 | 101–200 | 🟩 **100** | 🟩 **100** | 🟩 **100** | 🟩 **100** | 🟩 **100** | 🟩 **100** | 🟩 **100** | 🟩 **100** | 🟩 **100** | 🟩 **100** |
-| 201–300 | 🟨 56/100 | 🟩 **96** | 🟥 21/100 | 🟥 22/100 | 🟥 21/100 | 🟥 21/100 | 🟥 19/100 | 🟥 21/100 | 🟨 94/100 | ⬛ — |
+| 201–300 | 🟨 56/100 | 🟩 **96** | 🟥 21/100 | 🟥 22/100 | 🟥 21/100 | 🟥 21/100 | 🟨 80/100 | 🟥 21/100 | 🟨 94/100 | ⬛ — |
 | 301–400 | 🟥 0/100 | 🟨 57/100 | 🟥 0/100 | 🟥 15/100 | 🟥 0/100 | 🟥 0/100 | 🟥 6/100 | 🟥 15/100 | 🟥 43/100 | ⬛ — |
 | 401–500 | 🟥 0/100 | 🟨 55/100 | 🟥 0/100 | 🟥 17/100 | 🟥 0/100 | 🟥 0/100 | 🟥 19/100 | 🟥 0/100 | 🟥 45/100 | ⬛ — |
 | 501–600 | 🟥 0/100 | 🟥 8/100 | 🟥 0/100 | 🟥 0/100 | 🟥 0/100 | 🟥 0/100 | 🟥 1/100 | 🟥 0/100 | 🟥 5/100 | ⬛ — |
@@ -104,7 +104,7 @@ Each row shows problems left-to-right in groups of 10.
 
 `JS    ` 🟩🟩🟩🟩🟩🟩🟩🟩🟩🟩 🟩🟩🟩🟩🟩🟩🟩🟩🟩🟩 🟩🟥🟥🟥🟥🟥🟥🟥🟥🟥 🟥🟥🟥🟥🟥🟥🟥🟥🟥🟥 🟥🟥🟥🟥🟥🟥🟥🟥🟥🟥 🟥🟥🟥🟥🟥🟥🟥🟥🟥🟥 🟥🟥🟥🟥🟥🟥🟥🟥🟥🟥 🟥🟥🟥🟥🟥🟥🟥🟥🟥🟥 🟥🟥🟥🟥🟥🟥🟥🟥🟥🟥 🟥🟥🟥🟥🟥🟥🟥🟥🟥🟥
 
-`Py    ` 🟩🟩🟩🟩🟩🟩🟩🟩🟩🟩 🟩🟩🟩🟩🟩🟩🟩🟩🟥🟥 🟩🟥🟥🟥🟥🟥🟥🟥🟥🟥 🟥🟥🟥🟥🟥🟥🟥🟥🟥🟥 🟥🟥🟥🟥🟥🟥🟥🟥🟥🟥 🟥🟥🟥🟥🟥🟥🟥🟥🟥🟥 🟥🟥🟥🟥🟥🟥🟥🟥🟥🟥 🟥🟥🟥🟥🟥🟥🟥🟥🟥🟥 🟥🟥🟥🟥🟥🟥🟥🟥🟥🟥 🟥🟥🟥🟥🟥🟥🟥🟥🟥🟥
+`Py    ` 🟩🟩🟩🟩🟩🟩🟩🟩🟩🟩 🟩🟩🟩🟩🟩🟩🟩🟩🟩🟩 🟩🟩🟩🟩🟩🟩🟩🟩🟩🟩 🟩🟩🟩🟩🟩🟥🟩🟥🟩🟩 🟥🟩🟩🟩🟥🟩🟩🟩🟩🟩 🟩🟩🟩🟩🟩🟩🟩🟩🟩🟥 🟩🟥🟩🟩🟩🟩🟩🟩🟩🟩 🟩🟥🟩🟩🟥🟩🟩🟩🟥🟩 🟩🟩🟥🟩🟩🟩🟥🟩🟥🟥 🟥🟥🟩🟥🟩🟥🟩🟥🟥🟥
 
 `Rust  ` 🟩🟩🟩🟩🟩🟩🟩🟩🟩🟩 🟩🟩🟩🟩🟩🟩🟩🟩🟩🟩 🟩🟥🟥🟥🟥🟥🟥🟥🟥🟥 🟥🟥🟥🟥🟥🟥🟥🟥🟥🟥 🟥🟥🟥🟥🟥🟥🟥🟥🟥🟥 🟥🟥🟥🟥🟥🟥🟥🟥🟥🟥 🟥🟥🟥🟥🟥🟥🟥🟥🟥🟥 🟥🟥🟥🟥🟥🟥🟥🟥🟥🟥 🟥🟥🟥🟥🟥🟥🟥🟥🟥🟥 🟥🟥🟥🟥🟥🟥🟥🟥🟥🟥
 
@@ -167,9 +167,8 @@ Each row shows problems left-to-right in groups of 10.
 
 ## Suggested Next Actions
 
-- **Lowest absolute gap:** problem **219** (missing from ['Py'])
-- **Lowest single-language gap:** problem **219** (only Py missing)
-- **Lowest broad gap (≥5 langs):** problem **222** (missing from ['C#', 'Go', 'Java', 'JS', 'Py', 'Rust'])
+- **Lowest absolute gap:** problem **222** (missing from ['C#', 'Go', 'Java', 'JS', 'Rust'])
+- **Lowest broad gap (≥5 langs):** problem **222** (missing from ['C#', 'Go', 'Java', 'JS', 'Rust'])
 
 **Per-language contiguous frontier (highest n with no gap in 1..n):**
   - C: 1–**223**
@@ -178,7 +177,7 @@ Each row shows problems left-to-right in groups of 10.
   - Go: 1–**221**
   - Java: 1–**221**
   - JS: 1–**221**
-  - Py: 1–**218**
+  - Py: 1–**235**
   - Rust: 1–**221**
   - Zig: 1–**237**
   - ARM64: 1–**1000**

diff --git a/RESULTS.md b/RESULTS.md
@@ -16,7 +16,7 @@
 | 7 | **Rust** | 59.12s | 1.65x | 55 | 25 |
 | 8 | **Java** | 79.38s | 2.21x | 51 | 2 |
 | 9 | **JS** | 96.27s | 2.68x | 44 | 7 |
-| 10 | **Python** | 304.91s | 8.49x | 41 | 0 |
+| 10 | **Python** | 673.25s | 18.75x | 41 | 0 |
 
 *199 common problems, excluding 8 parked (algorithm redesign needed)*
 
@@ -58,8 +58,8 @@
 
 - **Languages:** C, C++, Rust, Go, Java, C#, JavaScript, Python, ARM64 Assembly
 - **Problems:** 200 (Project Euler #1-200)
-- **Total solutions:** 2647
-- **Pass rate:** 2615/2647 (98.8%)
+- **Total solutions:** 2725
+- **Pass rate:** 2699/2725 (99.0%)
 - **Parked (algorithm redesign):** 8 problems across all languages
 - **Generated by:** Claude Opus 4.6 (design + algorithms) and Sonnet 4.6 (language ports); newer work on Opus 4.7
 - **Platform:** Apple Silicon, macOS, ARM64
